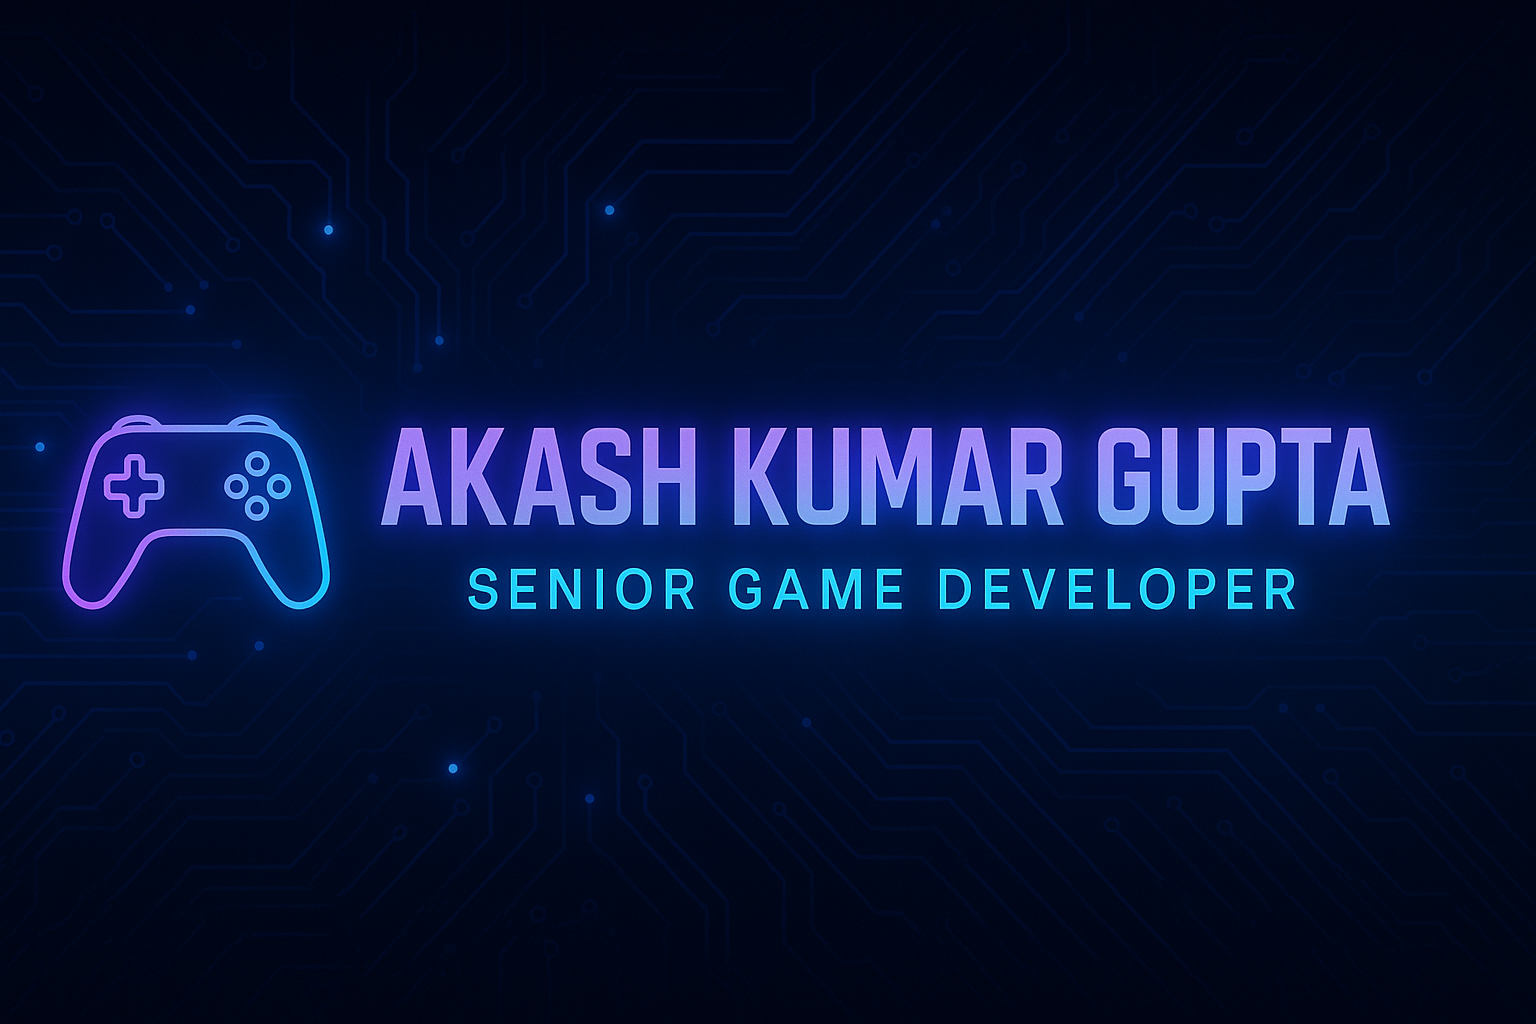
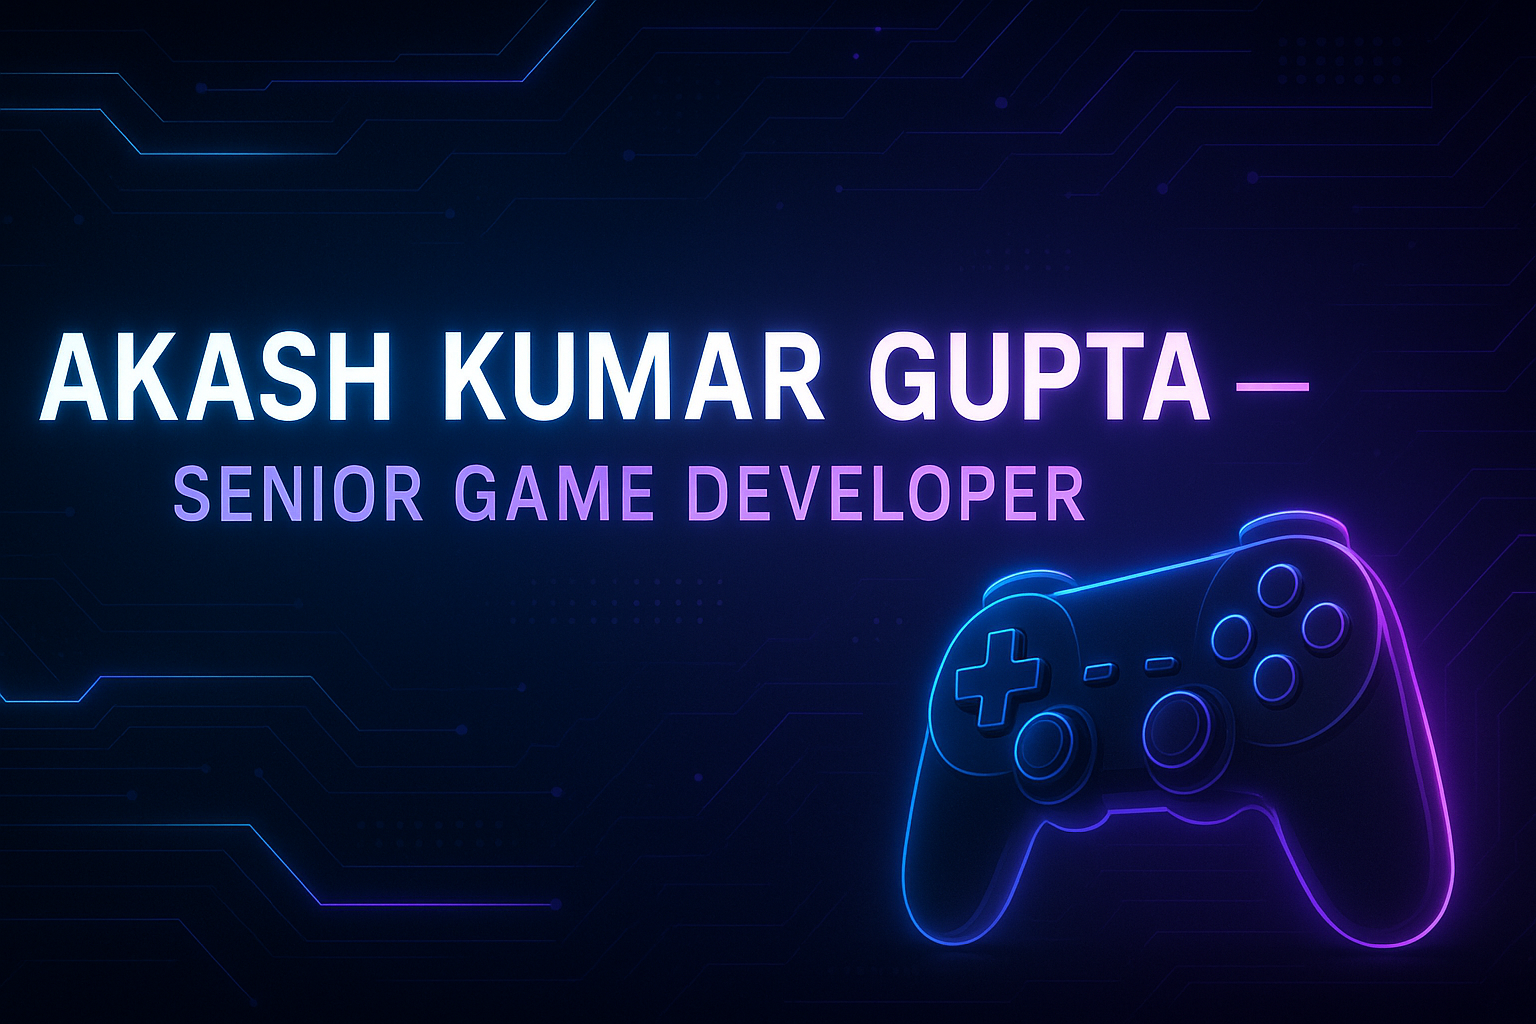
add poster

diff --git a/README.md b/README.md
@@ -1,8 +1,7 @@
 <!-- Banner -->
 <p align="center">
-  <img src="/akash_banner_advanced.gif" width="100%" alt="Akash Advanced Banner">
+  <img src="Akashgupta.png" alt="Banner" />
 </p>
-
 
 <h1 align="center">🚀 Akash Kumar Gupta</h1>
 <h3 align="center">Senior Game Developer | Game Tech Enthusiast | WebGL & 3D Interactive Engineer</h3>
